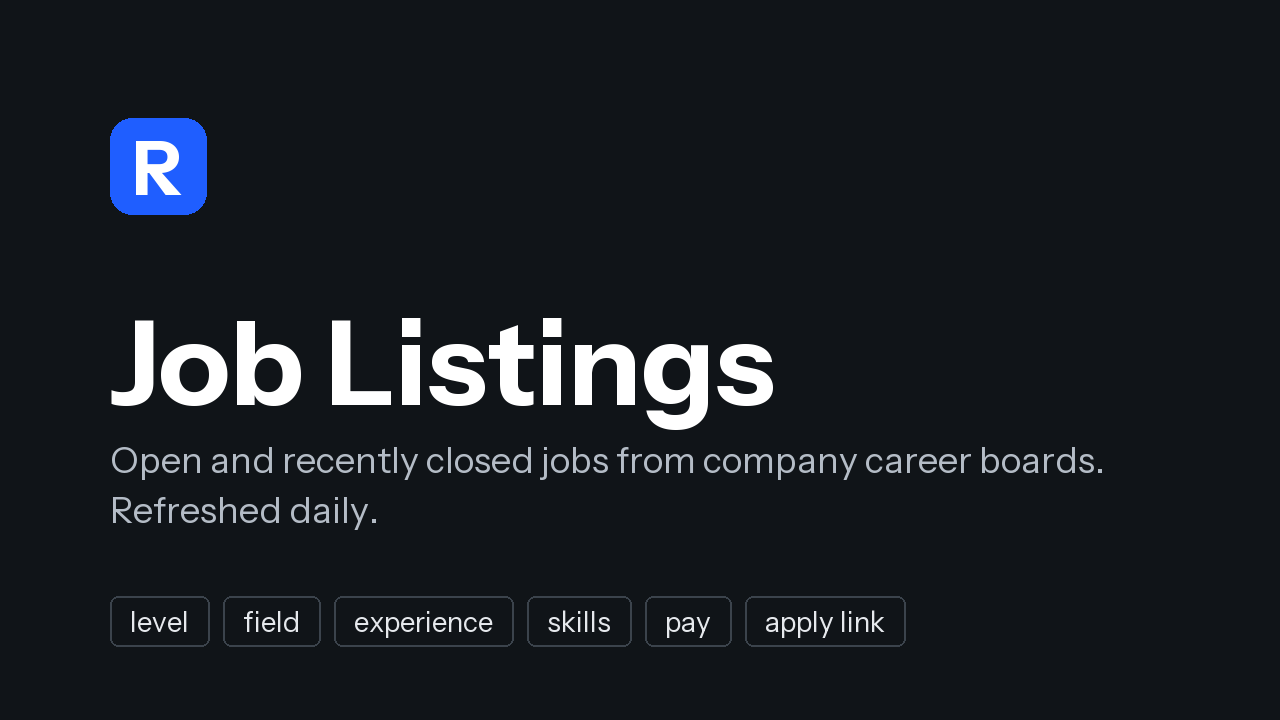
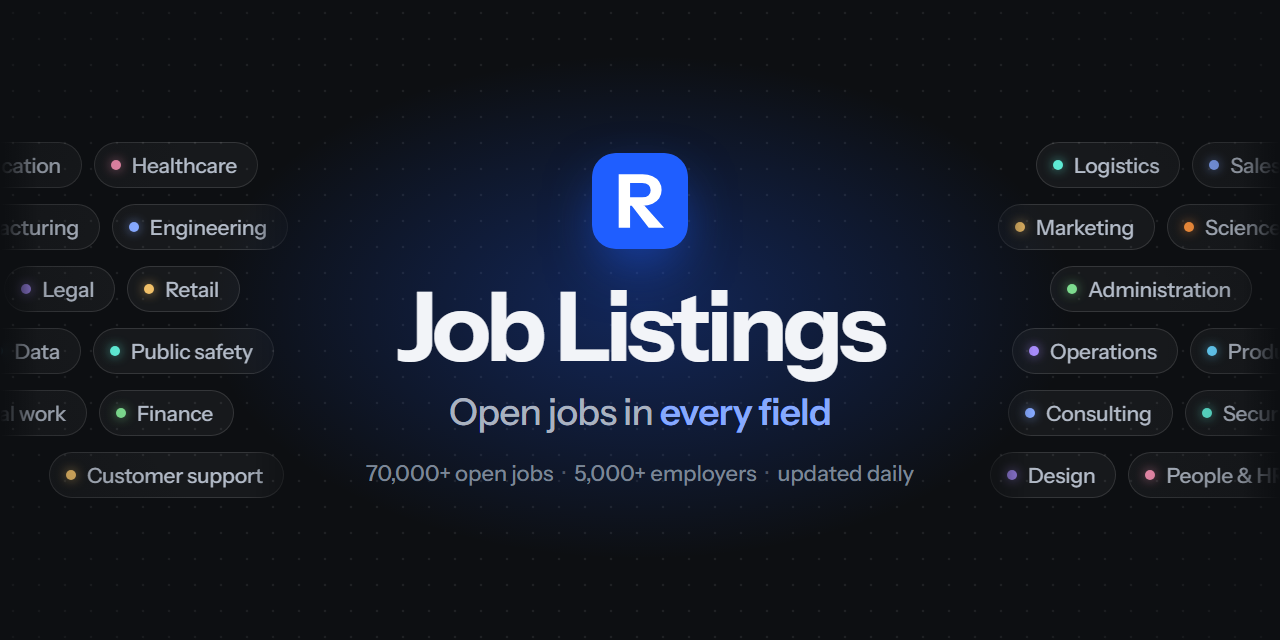
Give every provider its own scraper lane, retry mid-body cuts; new Kaggle cover, column table, publish checks and retries
Scraper: each provider (Greenhouse, Lever, Workday, Workable, Arbeitnow, each feed...) is its own lane with its own polite worker count, all lanes start
at once, so a slow or rate-limited provider only delays its own boards. A connection cut mid-body (IncompleteRead) is retried.

Kaggle: new 2:1 cover (whole image is the header, centre square the thumbnail) with its HTML source; the column descriptions are also written as a table
in the dataset description because Kaggle's server drops the API ones (kaggle-cli#1207); the export fails before publishing if the CSV headers and the
column descriptions differ; the publish and metadata-sync steps retry the empty-reply flake that failed 2 of the first 8 runs.

diff --git a/kaggle_assets/cover.html b/kaggle_assets/cover.html
@@ -1,0 +1,55 @@
+<!doctype html>
+<!-- Source of dataset-cover-image.png (also the website's social preview). Render with:
+     chrome --headless=new --hide-scrollbars --force-device-scale-factor=1 --window-size=1280,640 --screenshot=dataset-cover-image.png file:///.../kaggle_assets/cover.html
+     Kaggle shows the whole 2:1 image as the header and the centre 640x640 square as the thumbnail, so the title block stays inside that square;
+     the field chips on the sides are decoration. -->
+<meta charset="utf-8">
+<title>cover</title>
+<style>
+@font-face{font-family:"Instrument Sans";font-weight:400 700;src:url(../web/fonts/instrument-sans-latin.woff2) format("woff2")}
+*{box-sizing:border-box;margin:0}
+html,body{width:1280px;height:640px;overflow:hidden;background:#0d0f12;font-family:"Instrument Sans",system-ui,sans-serif;-webkit-font-smoothing:antialiased}
+.stage{position:relative;width:1280px;height:640px;background:
+  radial-gradient(ellipse 620px 360px at 50% 48%,rgba(31,94,255,.30),transparent 70%),
+  radial-gradient(circle,rgba(255,255,255,.075) 1.4px,transparent 1.6px) 0 0/26px 26px,#0d0f12}
+.side{position:absolute;top:0;bottom:0;width:316px;display:flex;flex-direction:column;justify-content:center;gap:16px}
+.side.l{left:0;align-items:flex-end;-webkit-mask-image:linear-gradient(90deg,transparent 0,#000 12%,#000 78%,transparent 100%)}
+.side.r{right:0;align-items:flex-start;-webkit-mask-image:linear-gradient(270deg,transparent 0,#000 12%,#000 78%,transparent 100%)}
+.row{display:flex;gap:12px;white-space:nowrap}
+.l .row{justify-content:flex-end}
+.chip{display:inline-flex;align-items:center;gap:11px;height:46px;padding:0 20px 0 16px;border-radius:23px;border:1px solid rgba(255,255,255,.13);background:rgba(255,255,255,.045);color:#b3bbc8;font-size:21px;font-weight:500;letter-spacing:-.01em}
+.chip::before{content:'';width:10px;height:10px;border-radius:50%;background:var(--c);box-shadow:0 0 12px -1px var(--c)}
+.vig{position:absolute;inset:0;background:radial-gradient(ellipse 70% 95% at 50% 50%,transparent 58%,rgba(13,15,18,.8) 100%)}
+.mid{position:absolute;left:320px;width:640px;top:0;bottom:0;display:flex;flex-direction:column;align-items:center;justify-content:center;text-align:center}
+.tile{width:96px;height:96px;border-radius:24px;box-shadow:0 22px 56px -12px rgba(31,94,255,.65),0 0 0 1px rgba(255,255,255,.08) inset}
+h1{margin-top:30px;font-size:96px;line-height:1;font-weight:700;letter-spacing:-.045em;color:#f2f4f8}
+.sub{margin-top:16px;font-size:37px;line-height:1.15;font-weight:500;letter-spacing:-.02em;color:#a9b2c0}
+.sub b{font-weight:600;color:#86a9ff}
+.meta{margin-top:26px;font-size:22px;font-weight:500;letter-spacing:-.005em;color:#7c8696}
+.meta s{text-decoration:none;color:#4d5563;margin:0 9px}
+</style>
+<div class="stage">
+  <div class="side l">
+    <div class="row" style="margin-right:58px"><span class="chip" style="--c:#7ddc8f">Education</span><span class="chip" style="--c:#f08cae">Healthcare</span></div>
+    <div class="row" style="margin-right:28px"><span class="chip" style="--c:#fb923c">Manufacturing</span><span class="chip" style="--c:#86a9ff">Engineering</span></div>
+    <div class="row" style="margin-right:76px"><span class="chip" style="--c:#a78bfa">Legal</span><span class="chip" style="--c:#f1c068">Retail</span></div>
+    <div class="row" style="margin-right:42px"><span class="chip" style="--c:#67d4ff">Data</span><span class="chip" style="--c:#5eead4">Public safety</span></div>
+    <div class="row" style="margin-right:82px"><span class="chip" style="--c:#f08cae">Social work</span><span class="chip" style="--c:#7ddc8f">Finance</span></div>
+    <div class="row" style="margin-right:32px"><span class="chip" style="--c:#f1c068">Customer support</span></div>
+  </div>
+  <div class="side r">
+    <div class="row" style="margin-left:72px"><span class="chip" style="--c:#5eead4">Logistics</span><span class="chip" style="--c:#86a9ff">Sales</span></div>
+    <div class="row" style="margin-left:34px"><span class="chip" style="--c:#f1c068">Marketing</span><span class="chip" style="--c:#fb923c">Science</span></div>
+    <div class="row" style="margin-left:86px"><span class="chip" style="--c:#7ddc8f">Administration</span></div>
+    <div class="row" style="margin-left:48px"><span class="chip" style="--c:#a78bfa">Operations</span><span class="chip" style="--c:#67d4ff">Product</span></div>
+    <div class="row" style="margin-left:44px"><span class="chip" style="--c:#86a9ff">Consulting</span><span class="chip" style="--c:#5eead4">Security</span></div>
+    <div class="row" style="margin-left:26px"><span class="chip" style="--c:#a78bfa">Design</span><span class="chip" style="--c:#f08cae">People &amp; HR</span></div>
+  </div>
+  <div class="vig"></div>
+  <div class="mid">
+    <img class="tile" src="../web/favicon.svg" alt="">
+    <h1>Job Listings</h1>
+    <div class="sub">Open jobs in <b>every field</b></div>
+    <div class="meta">70,000+ open jobs<s>·</s>5,000+ employers<s>·</s>updated daily</div>
+  </div>
+</div>

diff --git a/export_kaggle.py b/export_kaggle.py
@@ -12,7 +12,7 @@ from scraper import company_stats, fresher_ok, ghost_flags, load
 # These boards' terms are about attribution and display, so they stay out of a republished dataset.
 SKIP = {"remotive", "remoteok", "himalayas", "jobicy", "weworkremotely", "getonbrd", "workingnomads", "landingjobs", "cryptojobs"}
 COLUMNS = {  # name -> (type, description); also the CSV column order
-    "source": ("string", "Where the job was read from: greenhouse, lever, ashby, smartrecruiters, workday, eightfold, amazon, microsoft, teamtailor, personio, recruitee, workable, oracle or arbeitnow."),
+    "source": ("string", "Where the job was read from: greenhouse, lever, ashby, smartrecruiters, workday, eightfold, amazon, microsoft, teamtailor, personio, recruitee, workable, oracle, arbeitnow, jobtech (Swedish Public Employment Service) or usajobs (US federal jobs)."),
     "company": ("string", "Employer name."),
     "title": ("string", "Job title as posted."),
     "url": ("string", "Apply link: opens the posting on the employer's own careers page or job board, where you can apply. Unique per row, so it works as the key."),
@@ -55,6 +55,12 @@ SKILL_COLUMNS = {
     "jobs": ("numeric", "Open postings that mention the skill."),
     "tagged": ("numeric", "Open postings that mention at least one skill (the denominator for share_pct)."),
     "share_pct": ("numeric", "100 * jobs / tagged."),
+}
+FILES = {  # file -> (description, its columns): feeds the Kaggle file/column metadata, the column table in the description and the header check below
+    "jobs.csv": ("One row per job posting (open, or closed within the last 90 days), with the apply link, level, field, skills, pay where stated and dates. Identical postings are merged (see openings).", COLUMNS),
+    "jobs_by_company.csv": ("One row per company with 5+ open jobs: how many of its roles are open to 0-2 years of experience.", COMPANY_COLUMNS),
+    "open_jobs_daily.csv": ("Open and fresher-friendly job counts per day since tracking began (a growing time series).", DAILY_COLUMNS),
+    "skill_demand_daily.csv": ("Per day and skill: postings that mention the skill, postings that mention any skill, and the share between them.", SKILL_COLUMNS),
 }
 
 
@@ -120,6 +126,11 @@ with open(out / "skill_demand_daily.csv", "w", encoding="utf-8", newline="") as 
             if int(r["tagged"]):
                 w.writerow([r["date"], r["skill"], r["jobs"], r["tagged"], round(100 * int(r["jobs"]) / int(r["tagged"]), 2)])
 
+for name, (_, cols) in FILES.items():  # Kaggle's docs: the field list must cover every CSV column, in order, or descriptions "will not be matched up correctly": fail here, before anything is published
+    with open(out / name, encoding="utf-8", newline="") as f:
+        assert next(csv.reader(f)) == list(cols), f"{name}: CSV header and column descriptions differ"
+    assert all(t and d.strip() for t, d in cols.values()), f"{name}: a column has no type or description"
+
 fields = Counter(r["category"] for r in live if r["category"] != "other")
 field_list = ", ".join(f"{k.replace('_', ' ')} ({v:,})" for k, v in fields.most_common(14))
 n_companies = len({r["company"] for r in live})
@@ -127,8 +138,12 @@ TITLE = "Job Listings: Open Jobs in Every Field (Daily)"
 SUBTITLE = "Daily-updated open jobs with apply links, level, field, skills and pay"
 assert 6 <= len(TITLE) <= 50 and len(SUBTITLE) <= 80, (len(TITLE), len(SUBTITLE))
 SOURCES = ("Public job-board APIs and feeds of Greenhouse, Lever, Ashby, SmartRecruiters, Workday, Teamtailor, Personio, Recruitee, Workable and Oracle Recruiting, plus the careers search APIs of Microsoft, Amazon and "
-           "Eightfold-powered sites, and the Arbeitnow job API (company list: https://github.com/chandranshB/roleBase/blob/main/companies.json). "
+           "Eightfold-powered sites, the Arbeitnow job API, Sweden's open JobTech job-ad API and USAJOBS (company list: https://github.com/chandranshB/roleBase/blob/main/companies.json). "
            "Collected by https://github.com/chandranshB/roleBase with GitHub Actions; no logins, no private data.")
+# Kaggle's API accepts the per-column descriptions below but its server drops them (https://github.com/Kaggle/kaggle-cli/issues/1207), so they are also
+# written into the description itself, where they always show. The metadata is still sent: it starts to count as soon as Kaggle fixes that.
+COLUMN_TABLE = "\n\n".join(f"**`{name}`**\n\n| Column | Type | Meaning |\n|---|---|---|\n" + "\n".join(f"| `{c}` | {t} | {d.replace('|', '/')} |" for c, (t, d) in cols.items())
+                           for name, (_, cols) in FILES.items())
 DESCRIPTION = f"""# Job Listings: open jobs in every field, updated daily
 
 {len(live):,} open job postings from {n_companies:,} employers, collected straight from their own career pages and refreshed every day. Unlike most job datasets, it is **not limited to tech**: healthcare, retail, finance and banking, education, manufacturing, logistics, sales, marketing, engineering and more are all in here, so you can compare the job market across fields, not just inside one.
@@ -143,6 +158,10 @@ Every row has the **apply link**, the level (intern to manager+), the field, the
 | `jobs_by_company.csv` | One row per employer with 5+ open jobs ({len(company_rows):,} employers): how many of its roles are open to people with 0-2 years of experience, and how many "junior" roles quietly ask for 3+. |
 | `open_jobs_daily.csv` | Open and fresher-friendly job counts per day since tracking began. |
 | `skill_demand_daily.csv` | For every skill, the share of skill-tagged postings that mention it, per day. Technical and non-technical skills (Excel, customer service, project management, CPR, forklift and more). |
+
+## Columns
+
+{COLUMN_TABLE}
 
 ## Fields covered (open postings)
 
@@ -194,22 +213,7 @@ Binjola, C. ({today[:4]}). RoleBase Job Listings: Open Jobs in Every Field. Kagg
     "expectedUpdateFrequency": "daily",
     "userSpecifiedSources": SOURCES,
     "description": DESCRIPTION,
-    "resources": [{
-        "path": "jobs.csv",
-        "description": "One row per job posting (open, or closed within the last 90 days), with the apply link, level, field, skills, pay where stated and dates. Identical postings are merged (see openings).",
-        "schema": {"fields": [{"name": n, "description": d, "type": t} for n, (t, d) in COLUMNS.items()]},
-    }, {
-        "path": "jobs_by_company.csv",
-        "description": "One row per company with 5+ open jobs: how many of its roles are open to 0-2 years of experience.",
-        "schema": {"fields": [{"name": n, "description": d, "type": t} for n, (t, d) in COMPANY_COLUMNS.items()]},
-    }, {
-        "path": "open_jobs_daily.csv",
-        "description": "Open and fresher-friendly job counts per day since tracking began (a growing time series).",
-        "schema": {"fields": [{"name": n, "description": d, "type": t} for n, (t, d) in DAILY_COLUMNS.items()]},
-    }, {
-        "path": "skill_demand_daily.csv",
-        "description": "Per day and skill: postings that mention the skill, postings that mention any skill, and the share between them.",
-        "schema": {"fields": [{"name": n, "description": d, "type": t} for n, (t, d) in SKILL_COLUMNS.items()]},
-    }],
+    "resources": [{"path": name, "description": desc, "schema": {"fields": [{"name": n, "description": d, "type": t} for n, (t, d) in cols.items()]}}
+                  for name, (desc, cols) in FILES.items()],
 }, indent=2), encoding="utf-8")
-print(f"{len(rows)} rows -> kaggle/jobs.csv (+ jobs_by_company.csv, open_jobs_daily.csv, skill_demand_daily.csv)")
+print(f"{len(rows)} rows -> kaggle/jobs.csv (+ jobs_by_company.csv, open_jobs_daily.csv, skill_demand_daily.csv); description {len(DESCRIPTION):,} chars")

diff --git a/scraper.py b/scraper.py
@@ -25,7 +25,20 @@ DIR = Path("data/jobs")  # one jsonl per board, e.g. greenhouse_stripe.jsonl
 COMPANIES = Path("companies.json")  # {"greenhouse": {"stripe": "Stripe"}, ...}  slug -> display name
 KEEP_CLOSED_DAYS = 90  # closed jobs older than this are pruned (git history still has them)
 
-S = requests.Session()
+class Client(requests.Session):
+    waits = (2, 6)  # seconds before the 2nd and 3rd try
+
+    def request(self, *a, **kw):  # urllib3's Retry stops once the response starts, so a connection cut mid-body (IncompleteRead) is retried here
+        for w in (*self.waits, None):
+            try:
+                return super().request(*a, **kw)
+            except requests.exceptions.ChunkedEncodingError:
+                if w is None:
+                    raise
+                time.sleep(w)
+
+
+S = Client()
 S.headers["User-Agent"] = "roleBase-job-scraper"
 S.mount("https://", HTTPAdapter(pool_maxsize=64, max_retries=Retry(total=5, backoff_factor=2, status_forcelist=[429, 500, 502, 503, 504],
                                                                     allowed_methods=None)))  # None = retry POST too (Workday searches are read-only)
@@ -743,14 +756,16 @@ def verdict(jobs, err, prev, strikes):
     return None
 
 
-LANES = {"workable": 2, "arbeitnow": 1}  # rate-limited hosts get their own small pools: their pauses never tie up the main workers
-WORKERS = 24  # main pool: all I/O, spread over hundreds of different hosts
+# Every provider is its own lane and all lanes start at once, so a slow or rate-limited provider only ever delays its own boards, never someone else's.
+# The number is how many boards of that provider are fetched at the same time (conservative defaults, not published limits); a provider not listed
+# here (Arbeitnow, every feed, Amazon, Microsoft...) gets one worker, i.e. one board at a time. Workable and Arbeitnow also pause a second between requests.
+LANES = {"greenhouse": 8, "lever": 6, "ashby": 6, "smartrecruiters": 4, "workday": 16, "teamtailor": 4, "oracle": 4, "workable": 2, "personio": 2, "recruitee": 2}
 RUN_BUDGET = 22 * 60  # seconds. A hung source is cut off (its jobs are kept as they were); the Actions job itself times out at 30 minutes
 
 
-def run_all(tasks, budget=RUN_BUDGET, workers=WORKERS):
-    """tasks: [(key, fn)] -> ([(key, result, error, seconds)], unfinished keys). Every task runs at once in its pool: the main pool, or the lane named
-    by the key's first part (e.g. "workable:foo" -> the workable lane). Past `budget` seconds the unfinished tasks are reported as timed out."""
+def run_all(tasks, budget=RUN_BUDGET):
+    """tasks: [(key, fn)] -> ([(key, result, error, seconds)], unfinished keys). A task runs in the lane named by its key's first part
+    ("workable:foo" -> workable, "remotive" -> remotive), at that lane's own pace. Past `budget` seconds the unfinished tasks are reported as timed out."""
     def run(t):
         t0 = time.time()
         try:
@@ -758,8 +773,12 @@ def run_all(tasks, budget=RUN_BUDGET, workers=WORKERS):
         except Exception as e:
             return t[0], None, e, time.time() - t0
 
-    pools = {None: ThreadPoolExecutor(workers), **{lane: ThreadPoolExecutor(n) for lane, n in LANES.items()}}
-    futs = {pools[t[0].split(":")[0] if t[0].split(":")[0] in LANES else None].submit(run, t): t[0] for t in tasks}
+    pools = {}
+    futs = {}
+    for t in tasks:
+        lane = t[0].split(":")[0]
+        pool = pools.get(lane) or pools.setdefault(lane, ThreadPoolExecutor(LANES.get(lane, 1)))
+        futs[pool.submit(run, t)] = t[0]
     done, pending = wait(futs, timeout=budget)
     for ex in pools.values():
         ex.shutdown(wait=False, cancel_futures=True)
@@ -808,6 +827,10 @@ def main():
         print(f"::warning title=scrape {scope}::{why}")  # shows up as an annotation on the Actions run
     slow = sorted(results, key=lambda r: -r[3])[:3]
     print("slowest: " + ", ".join(f"{r[0]} {r[3]:.0f}s" for r in slow) + f" | busy {sum(r[3] for r in results):.0f}s of {time.time() - t_start:.0f}s")
+    busy = {}
+    for r in results:
+        busy[r[0].split(":")[0]] = busy.get(r[0].split(":")[0], 0) + r[3]
+    print("busy per lane (seconds of work / workers): " + ", ".join(f"{k} {v:.0f}/{LANES.get(k, 1)}" for k, v in sorted(busy.items(), key=lambda kv: -kv[1])[:6]))
     if not fetched:
         sys.exit("all sources failed")
 

diff --git a/test_scraper.py b/test_scraper.py
@@ -138,7 +138,7 @@ u = usajobs_job({"MatchedObjectId": "123", "MatchedObjectDescriptor": {
     "PositionSchedule": [{"Name": "Full-time"}], "JobCategory": [{"Name": "Nurse"}], "UserArea": {"Details": {"RemoteIndicator": "False", "JobSummary": "Care for patients."}}}})
 assert u["id"] == "usajobs:123" and u["category"] == "healthcare" and u["pay"] == [70000, 95000, "USD"] and not u["remote"] and u["posted"] == "2026-10-01"
 
-# --- run_all: lanes cap concurrency per rate-limited host, a hung source is cut off at the budget and everything else still finishes ---
+# --- run_all: each provider is its own lane with its own concurrency cap, a hung source is cut off at the budget and everything else still finishes ---
 import threading
 import time
 
@@ -163,5 +163,50 @@ assert peak == 2, peak  # the workable lane runs two boards at a time, however m
 assert unfinished == ["hang"] and time.time() - t0 < 2.5  # cut off at the budget, not after the hang
 by = {r[0]: r for r in res}
 assert len(res) == 12 and all(by[f"workable:{i}"][1] == ["job"] for i in range(6)) and isinstance(by["hang"][2], TimeoutError)
+
+# a connection cut mid-body is retried (urllib3's own retry does not cover it), and gives up after three tries
+import requests
+import scraper
+
+cuts, orig = [], requests.Session.request
+scraper.S.waits = (0, 0)
+
+
+def flaky(self, *a, **kw):
+    cuts.append(1)
+    if len(cuts) <= 2:
+        raise requests.exceptions.ChunkedEncodingError("IncompleteRead")
+    return "ok"
+
+
+requests.Session.request = flaky
+assert scraper.S.get("https://x.test") == "ok" and len(cuts) == 3
+cuts.clear()
+requests.Session.request = lambda self, *a, **kw: cuts.append(1) or (_ for _ in ()).throw(requests.exceptions.ChunkedEncodingError("cut"))
+try:
+    scraper.S.get("https://x.test")
+    raise SystemExit("should have raised")
+except requests.exceptions.ChunkedEncodingError:
+    assert len(cuts) == 3
+requests.Session.request = orig
+
+# providers do not queue behind each other: 3 providers x 3 slow boards, one worker each -> about 3 boards deep, not 9
+seen, mx = {}, {}
+
+
+def slow(lane):
+    with lock:
+        seen[lane] = seen.get(lane, 0) + 1
+        mx[lane] = max(mx.get(lane, 0), seen[lane])
+    time.sleep(.2)
+    with lock:
+        seen[lane] -= 1
+    return ["job"]
+
+
+t0 = time.time()
+res, unfinished = run_all([(f"{lane}:{i}", lambda lane=lane: slow(lane)) for i in range(3) for lane in ("prov_a", "prov_b", "prov_c")], budget=5)
+assert not unfinished and len(res) == 9 and mx == {"prov_a": 1, "prov_b": 1, "prov_c": 1}, mx  # an unlisted provider fetches one board at a time
+assert time.time() - t0 < .9, time.time() - t0  # 0.6s when the three providers run side by side, 1.8s if they queued
 
 print("ok")

diff --git a/README.md b/README.md
@@ -80,9 +80,9 @@ flowchart LR
 ```
 
 - [`scrape.yml`](.github/workflows/scrape.yml) runs every 6 hours: tests, scrape, charts, commit the changes, deploy the site.
-- [`kaggle.yml`](.github/workflows/kaggle.yml) runs daily: builds the four dataset CSVs, publishes a new version, waits until Kaggle has built it, then syncs the description, tags, column docs and the public starter notebook.
+- [`kaggle.yml`](.github/workflows/kaggle.yml) runs daily: builds the four dataset CSVs, publishes a new version, waits until Kaggle has built it, then syncs the description, tags and the public starter notebook, retrying the flaky Kaggle calls. Column descriptions go out in the dataset metadata too, but Kaggle's server currently drops them ([kaggle-cli#1207](https://github.com/Kaggle/kaggle-cli/issues/1207)), so they are also written as a table in the dataset description; the export fails before publishing if those descriptions and the CSV headers ever differ.
 - A failed source never closes its jobs. An empty answer, or one that is suddenly under 40% of the board's previous size, is distrusted too and only believed if it repeats on a third run in a row, so real shutdowns still close their jobs. [`data/health.json`](data/health.json) lists every board with its last good day and bad-run count, and failures show up as warnings on the Actions run.
-- Boards are fetched 24 at a time, biggest first; the big paged APIs (Workday, Microsoft) fetch their pages in parallel. Rate-limited hosts (Arbeitnow, Workable) run in their own small lanes alongside everyone else, so their pauses never slow the rest. A source still running after 22 minutes is cut off and keeps its old jobs. A full run takes about five minutes (Arbeitnow's one-page-per-second limit sets the floor).
+- Every provider is its own lane and all lanes run at once: Greenhouse, Lever, Workday, Workable and the rest each fetch their boards at their own polite pace (a handful at a time, one board at a time for the feeds and Arbeitnow, a second's pause between Workable and Arbeitnow requests), so a slow or rate-limited provider only delays its own boards. The big paged APIs (Workday, Microsoft) also fetch their pages in parallel. A source still running after 22 minutes is cut off and keeps its old jobs. A full run takes about six minutes (Arbeitnow's one-page-per-second limit sets the floor).
 - Workday employers can post thousands of jobs, so only the newest 60 per employer are kept (`WD_CAP` in `scraper.py`); Amazon and Eightfold-powered career sites (Starbucks and others) keep the newest 300 (`EF_CAP`). Their list endpoint has no description, so years, skills and pay are empty for them.
 - US federal jobs (every occupation) come from USAJOBS when `USAJOBS_API_KEY` and `USAJOBS_EMAIL` are set as repository secrets (free key at developer.usajobs.gov); without them that source is simply skipped.
 - Company icons (`build_logos.py`) come from each company's own site first, then the [Simple Icons](https://simpleicons.org) library (CC0 files, exact name matches only), then Google's icon service as a build-time fallback. A company with no usable logo gets a generic sector icon from Tabler Icons (chosen by the field most of its jobs are in) rather than a guessed or wrong logo. Brand names and marks belong to their owners and are shown only to identify who posted a job.
